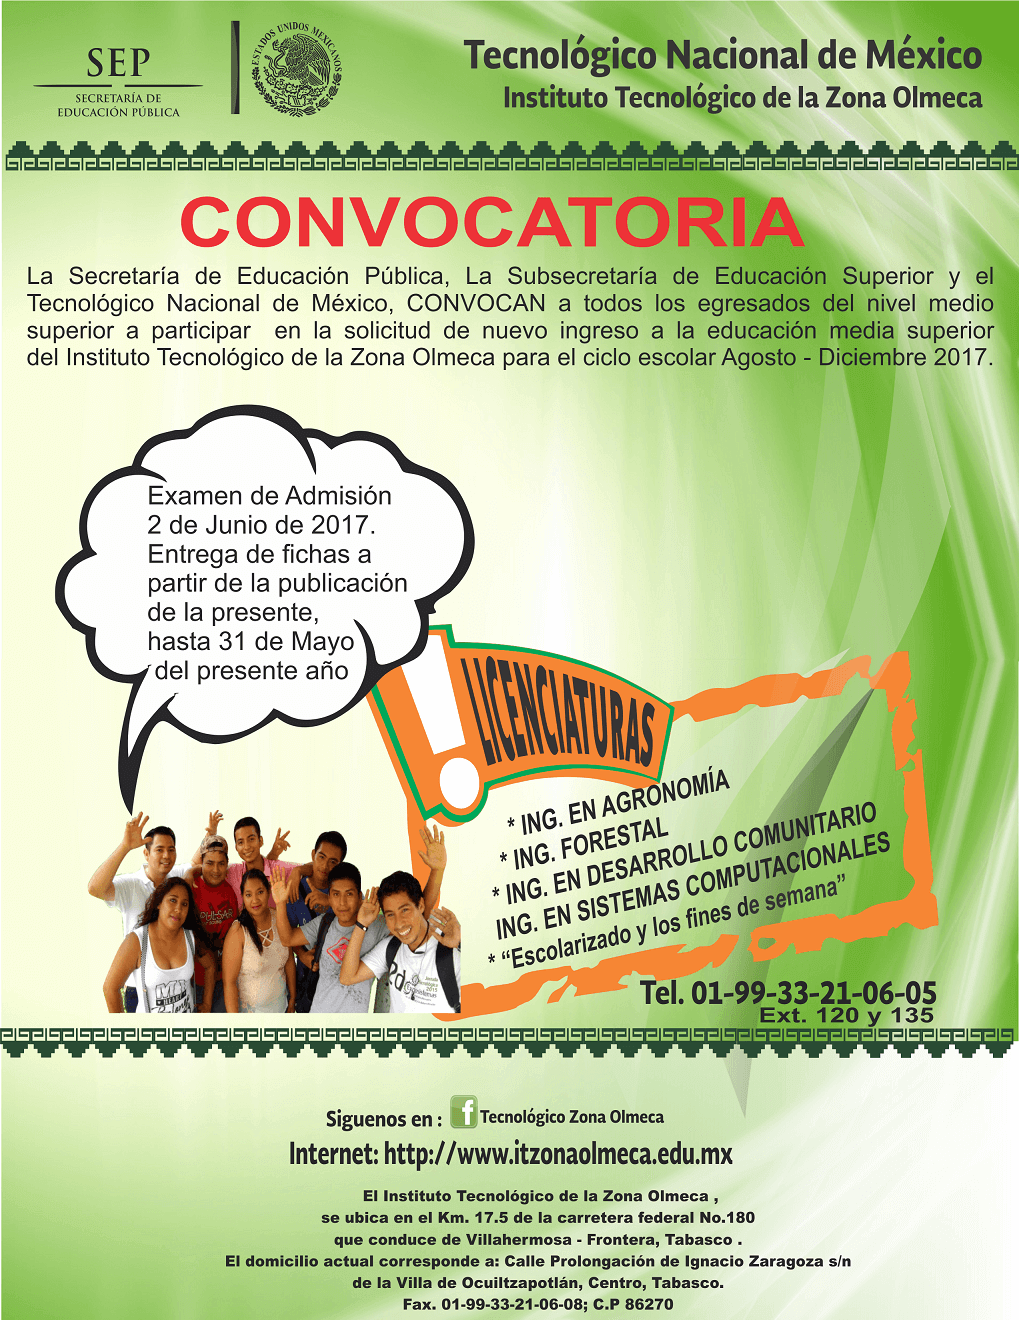
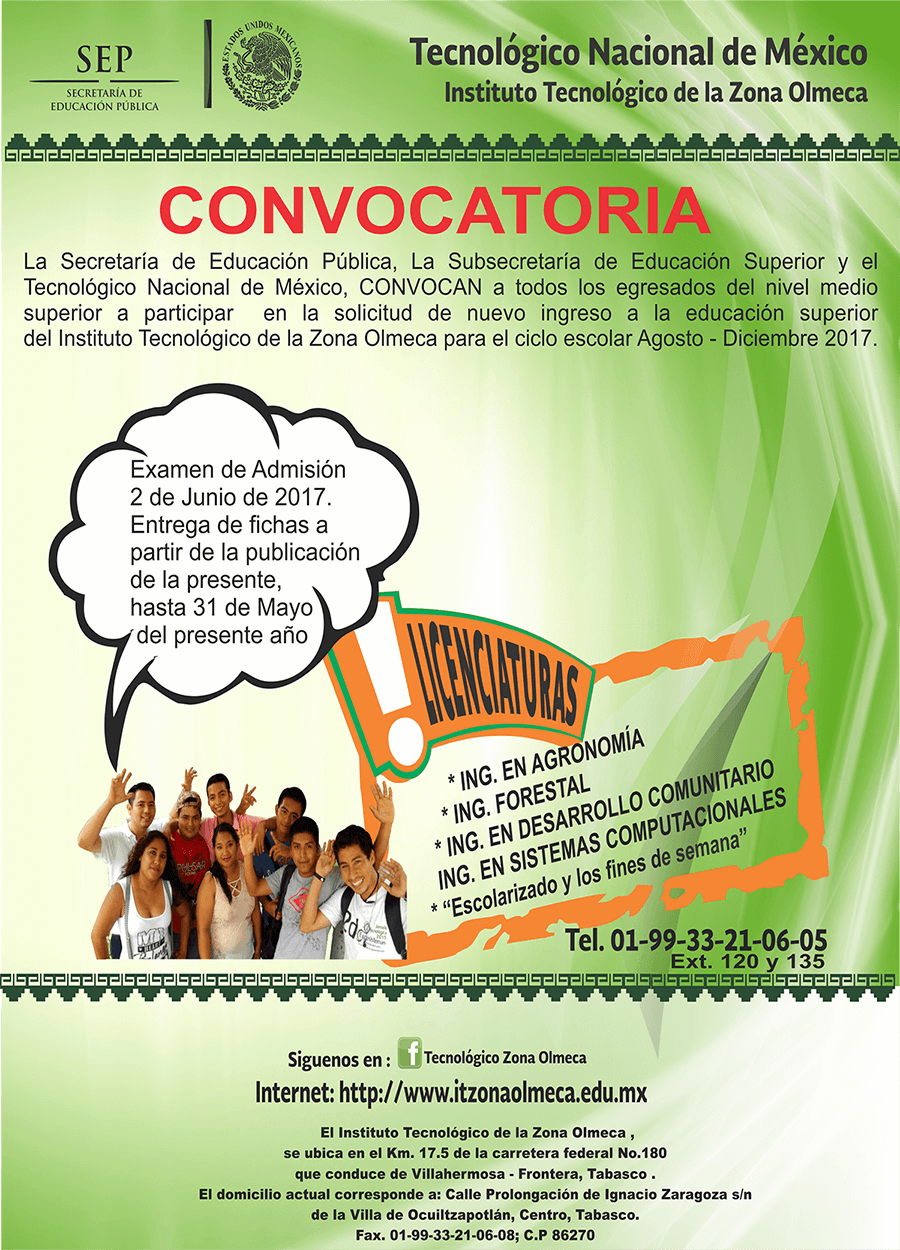
Corrigio error de inscripciones

diff --git a/index.php b/index.php
@@ -77,8 +77,7 @@
           CONVOCATORIA
         </p>
         <p>
-          A todos los egresados del nivel medio superior a participar en la solicitud de nuevo ingreso a la educación media superior del Instituto Tecnológico de la Zona Olmeca para el ciclo escolar Agosto - Diciembre 2017.
-
+          A todos los egresados del nivel medio superior a participar en la solicitud de nuevo ingreso a la educación superior del Instituto Tecnológico de la Zona Olmeca para el ciclo escolar Agosto - Diciembre 2017.
         </p>
       </div>    
     </a>
@@ -100,7 +99,7 @@
           CONVOCATORIA
         </p>
         <p>
-          A todos los egresados del nivel medio superior a participar en la solicitud de nuevo ingreso a la educación media superior del Instituto Tecnológico de la Zona Olmeca para el ciclo escolar Agosto - Diciembre 2017.
+          A todos los egresados del nivel medio superior a participar en la solicitud de nuevo ingreso a la educación superior del Instituto Tecnológico de la Zona Olmeca para el ciclo escolar Agosto - Diciembre 2017.
 
         </p>
       </div>    
@@ -145,7 +144,7 @@
             Convocatoria
           </h3>
           <p class="nota-texto" id="descripcion-noticia">
-            A todos los egresados del nivel medio superior a participar en la solicitud de nuevo ingreso a la educación media superior del Instituto Tecnológico de la Zona Olmeca para el ciclo escolar Agosto - Diciembre 2017. 
+            A todos los egresados del nivel medio superior a participar en la solicitud de nuevo ingreso a la educación superior del Instituto Tecnológico de la Zona Olmeca para el ciclo escolar Agosto - Diciembre 2017.
           </p>
           <a href="app/centro/noticias/inscripciones.php" class="leer-mas" id="leer-mas-noticia">
             Leer más...

diff --git a/app/centro/noticias/inscripciones.php b/app/centro/noticias/inscripciones.php
@@ -138,7 +138,7 @@
     <figure>
       <img src="../../../assets/img/admision-2017.png">
     </figure>
-    <p>La Secretaría de Educación Pública, La Subsecretaría de Educación Superior y el Tecnológico Nacional de México, CONVOCAN a todos los egresados del nivel medio superior a participar en la solicitud de nuevo ingreso a la educación media superior del Instituto Tecnológico de la Zona Olmeca para el ciclo escolar Agosto - Diciembre 2017.
+    <p>La Secretaría de Educación Pública, La Subsecretaría de Educación Superior y el Tecnológico Nacional de México, CONVOCAN a todos los egresados del nivel medio superior a participar en la solicitud de nuevo ingreso a la educación superior del Instituto Tecnológico de la Zona Olmeca para el ciclo escolar Agosto - Diciembre 2017.
     
     REQUISITOS DE ADMISIÓN:
 

diff --git a/app/centro/noticias.php b/app/centro/noticias.php
@@ -162,7 +162,7 @@
               Convocatoria
             </h3>
             <p class="nota-texto-noticia" id="descripcion-noticia">
-              A todos los egresados del nivel medio superior a participar en la solicitud de nuevo ingreso a la educación media superior del Instituto Tecnológico de la Zona Olmeca para el ciclo escolar Agosto - Diciembre 2017. 
+              A todos los egresados del nivel medio superior a participar en la solicitud de nuevo ingreso a la educación superior del Instituto Tecnológico de la Zona Olmeca para el ciclo escolar Agosto - Diciembre 2017.
             </p>
             <a href="noticias/inscripciones.php" class="ver-mas-noticia" id="leer-mas-noticia">
               Ver...
